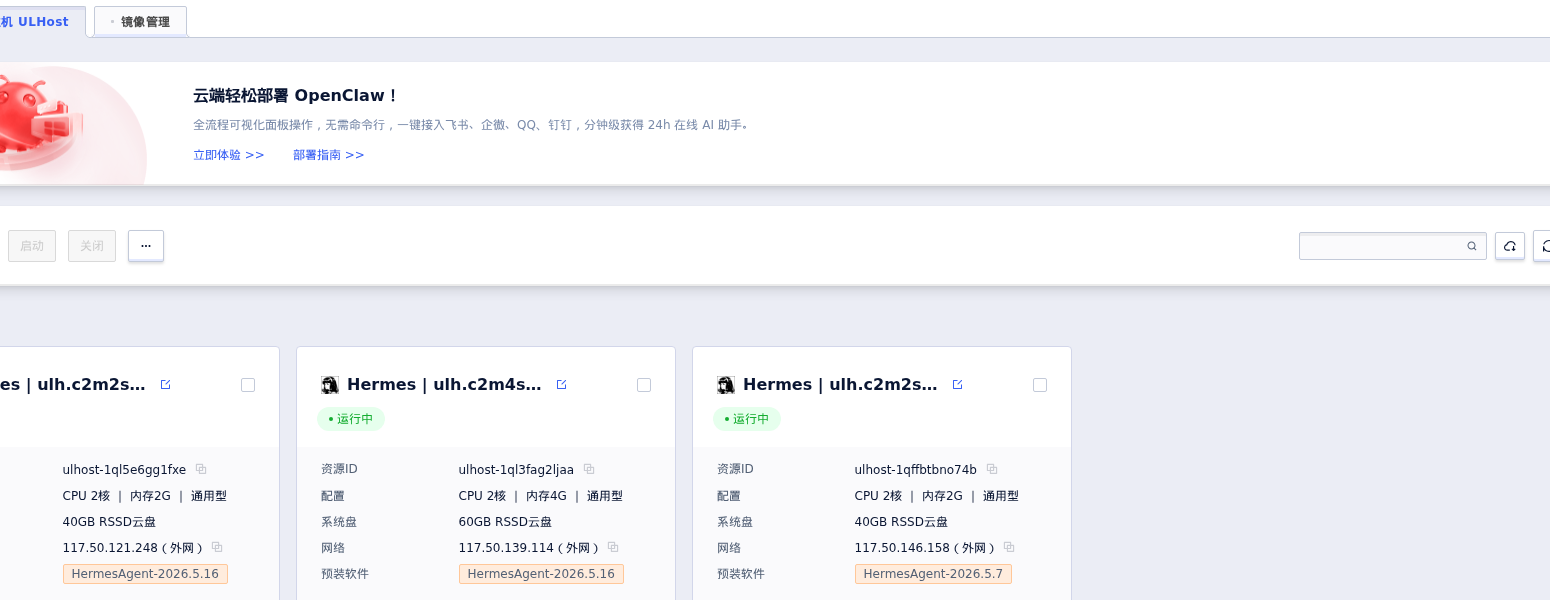
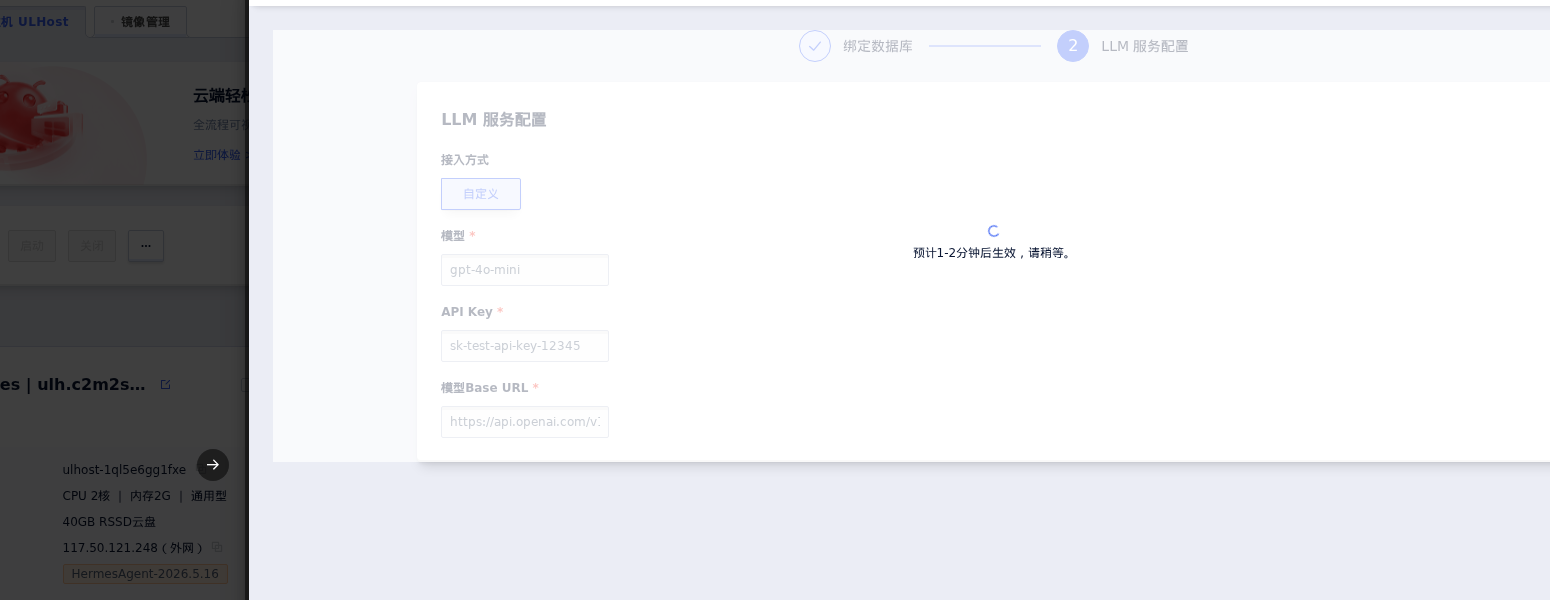
docs: 更新Hermes记忆管理配置截图（入口页面、第一步、第二步）

diff --git a/guide/hermes_memory.md b/guide/hermes_memory.md
@@ -36,7 +36,7 @@ DBMemory智能记忆增强是Hermes镜像提供的高级记忆管理功能，通
 
 在弹出的配置窗口中，第一步为绑定数据库：
 
-![image](/images/hermes_memory_step1_filled.png)
+![image](/images/hermes_memory_step1.png)
 
 **配置项说明**：
 
@@ -62,7 +62,7 @@ DBMemory智能记忆增强是Hermes镜像提供的高级记忆管理功能，通
 
 填写LLM服务的相关信息：
 
-![image](/images/hermes_memory_step2_filled.png)
+![image](/images/hermes_memory_step2.png)
 
 **配置项说明**：
 
@@ -87,8 +87,6 @@ DBMemory智能记忆增强是Hermes镜像提供的高级记忆管理功能，通
 配置成功后，记忆管理页面将显示当前运行状态：
 
 ![image](/images/hermes_memory_done.png)
-
-**基础信息**：
 
 | 信息项 | 说明 |
 |--------|------|